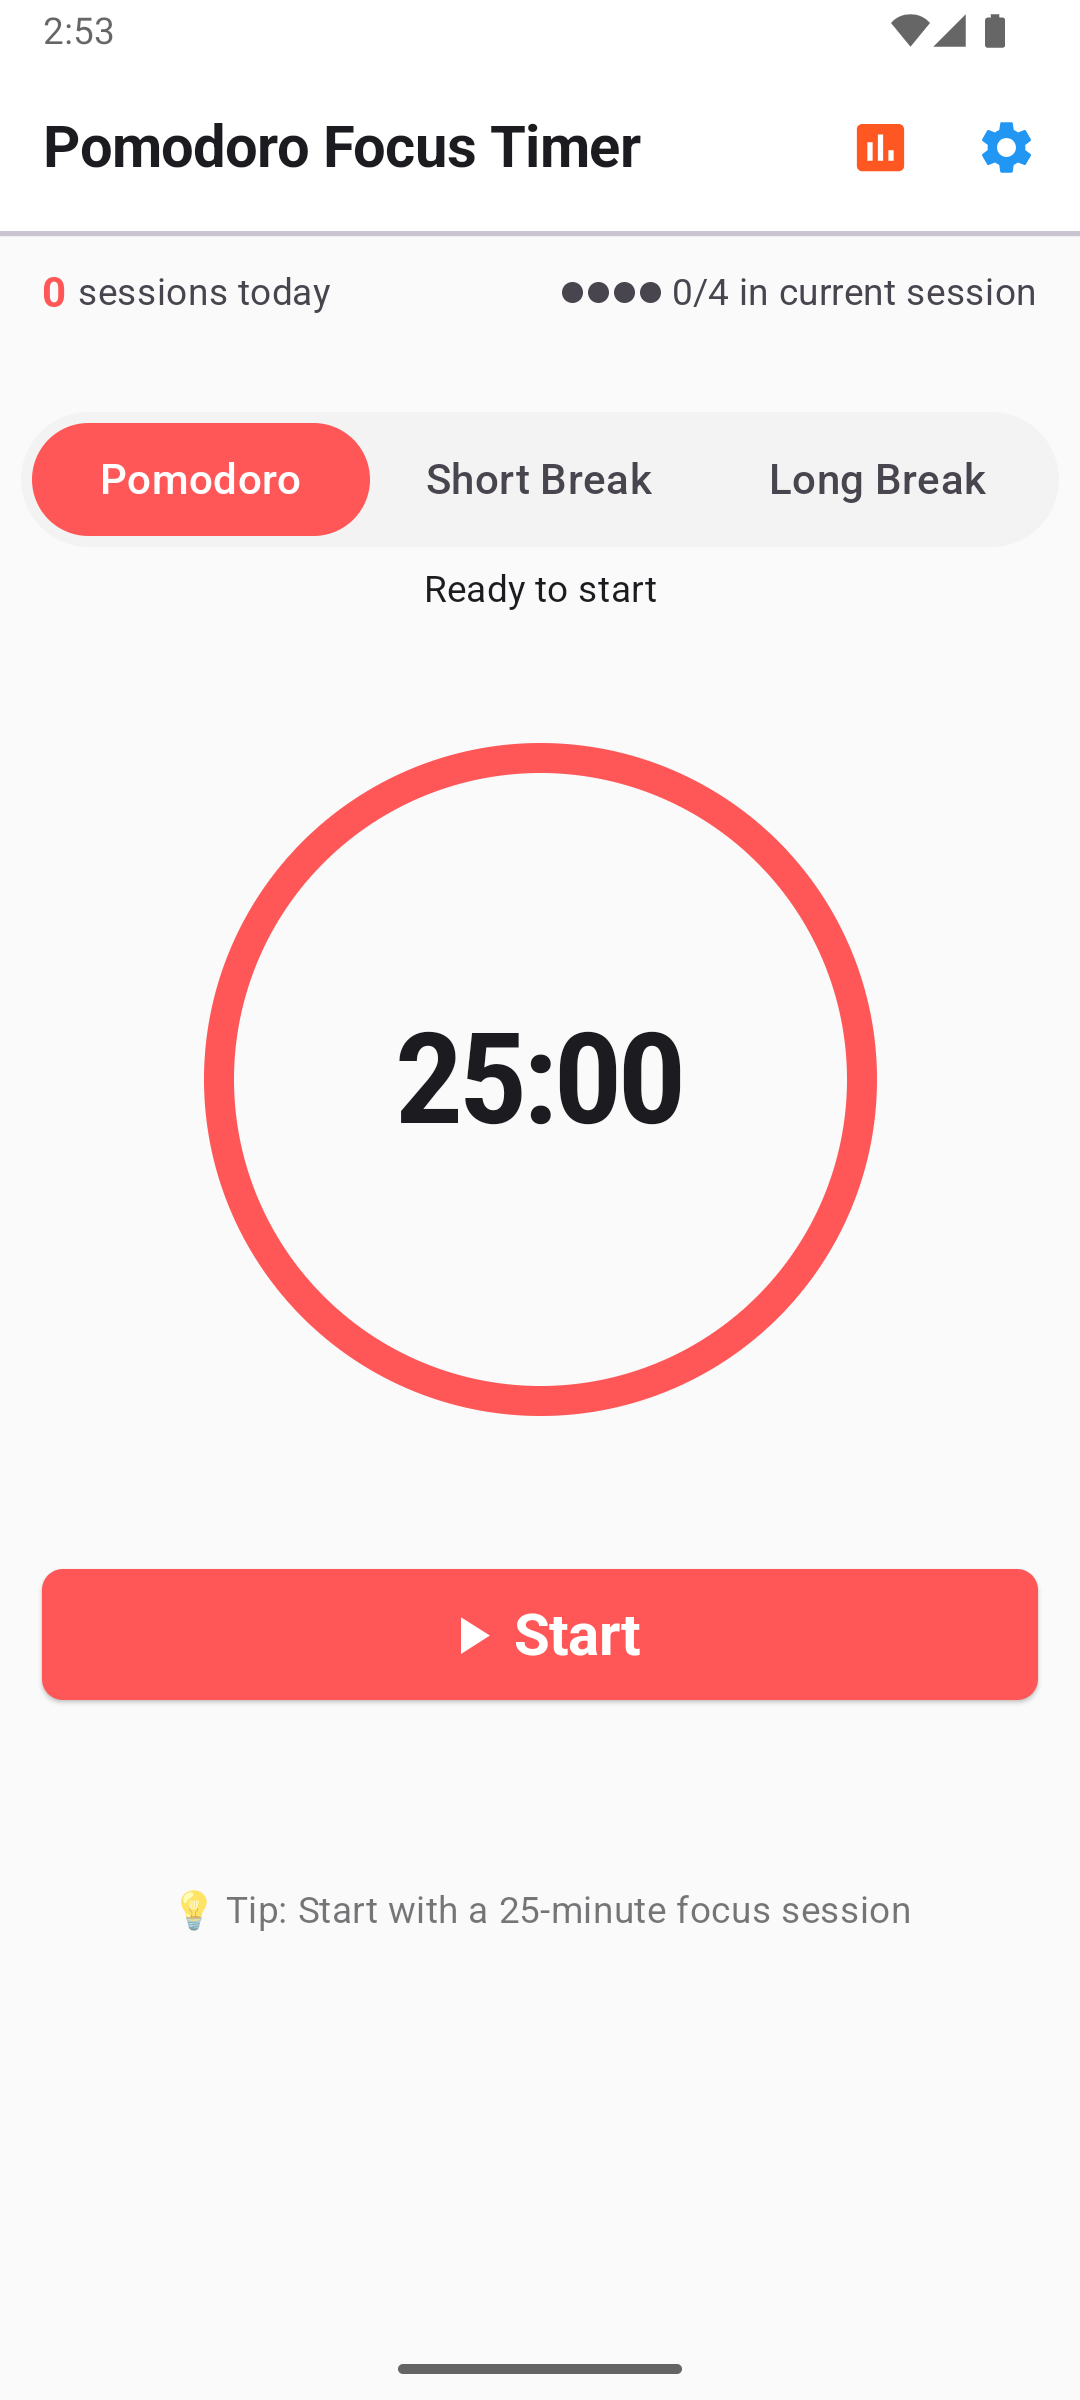
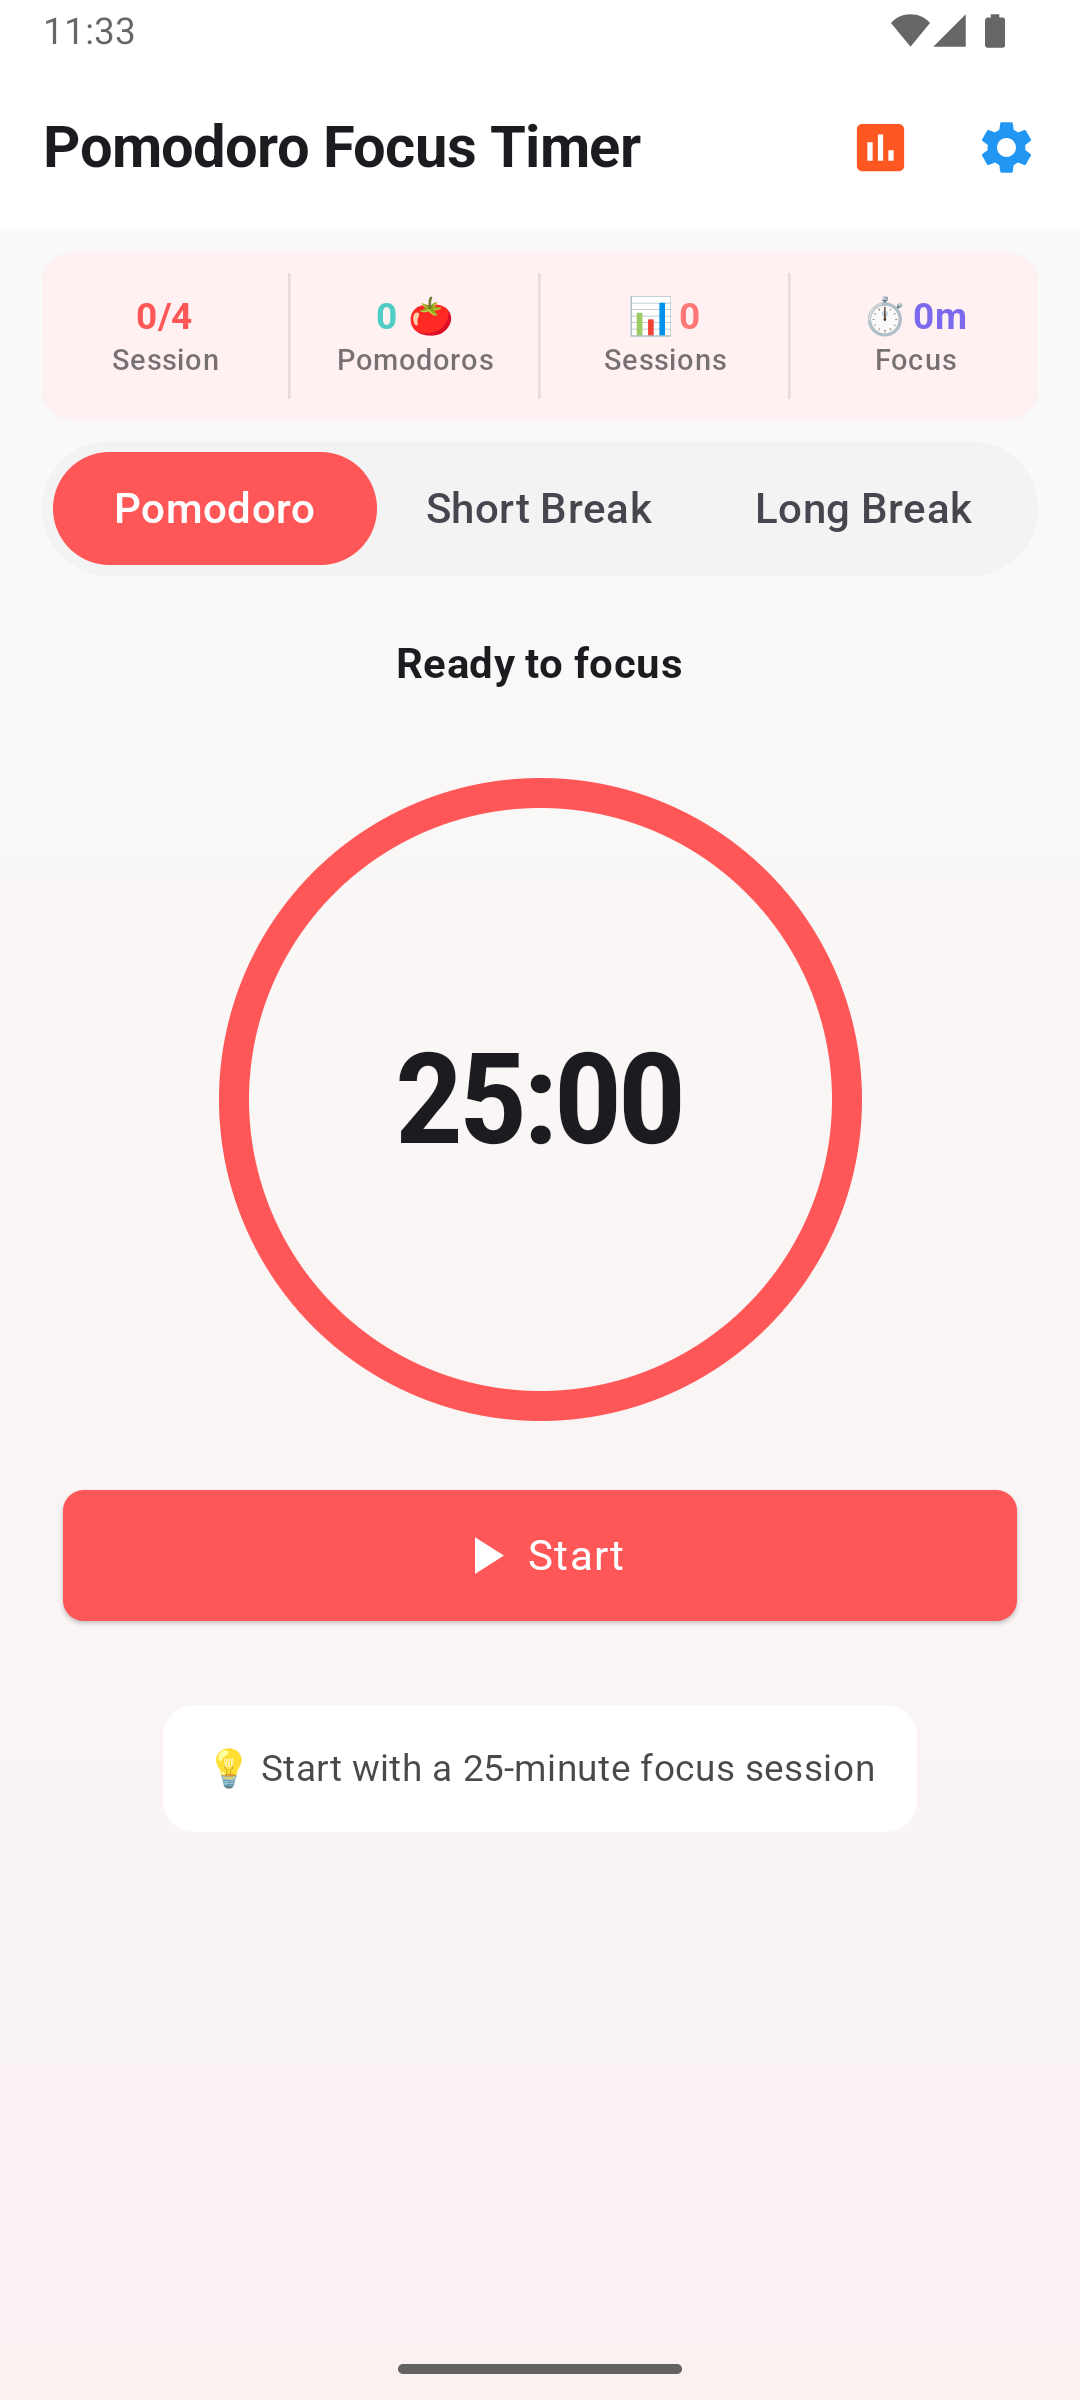
improved

diff --git a/app/src/main/java/com/sultonuzdev/pft/features/timer/presentation/TimerScreen.kt b/app/src/main/java/com/sultonuzdev/pft/features/timer/presentation/TimerScreen.kt
@@ -1,6 +1,7 @@
 package com.sultonuzdev.pft.features.timer.presentation
 
 import android.content.res.Configuration
+import androidx.compose.animation.AnimatedVisibility
 import androidx.compose.foundation.BorderStroke
 import androidx.compose.foundation.background
 import androidx.compose.foundation.layout.Arrangement
@@ -456,12 +457,7 @@ private fun TimerStatusDisplay(
     timerState: TimerState,
     modifier: Modifier = Modifier
 ) {
-    Card(
-        modifier = modifier,
-        colors = CardDefaults.cardColors(
-            containerColor = MaterialTheme.colorScheme.surfaceVariant.copy(alpha = 0.5f)
-        )
-    ) {
+
         Column(
             modifier = Modifier
                 .fillMaxWidth()
@@ -487,7 +483,6 @@ private fun TimerStatusDisplay(
                 }
             )
 
-        }
     }
 }
 
